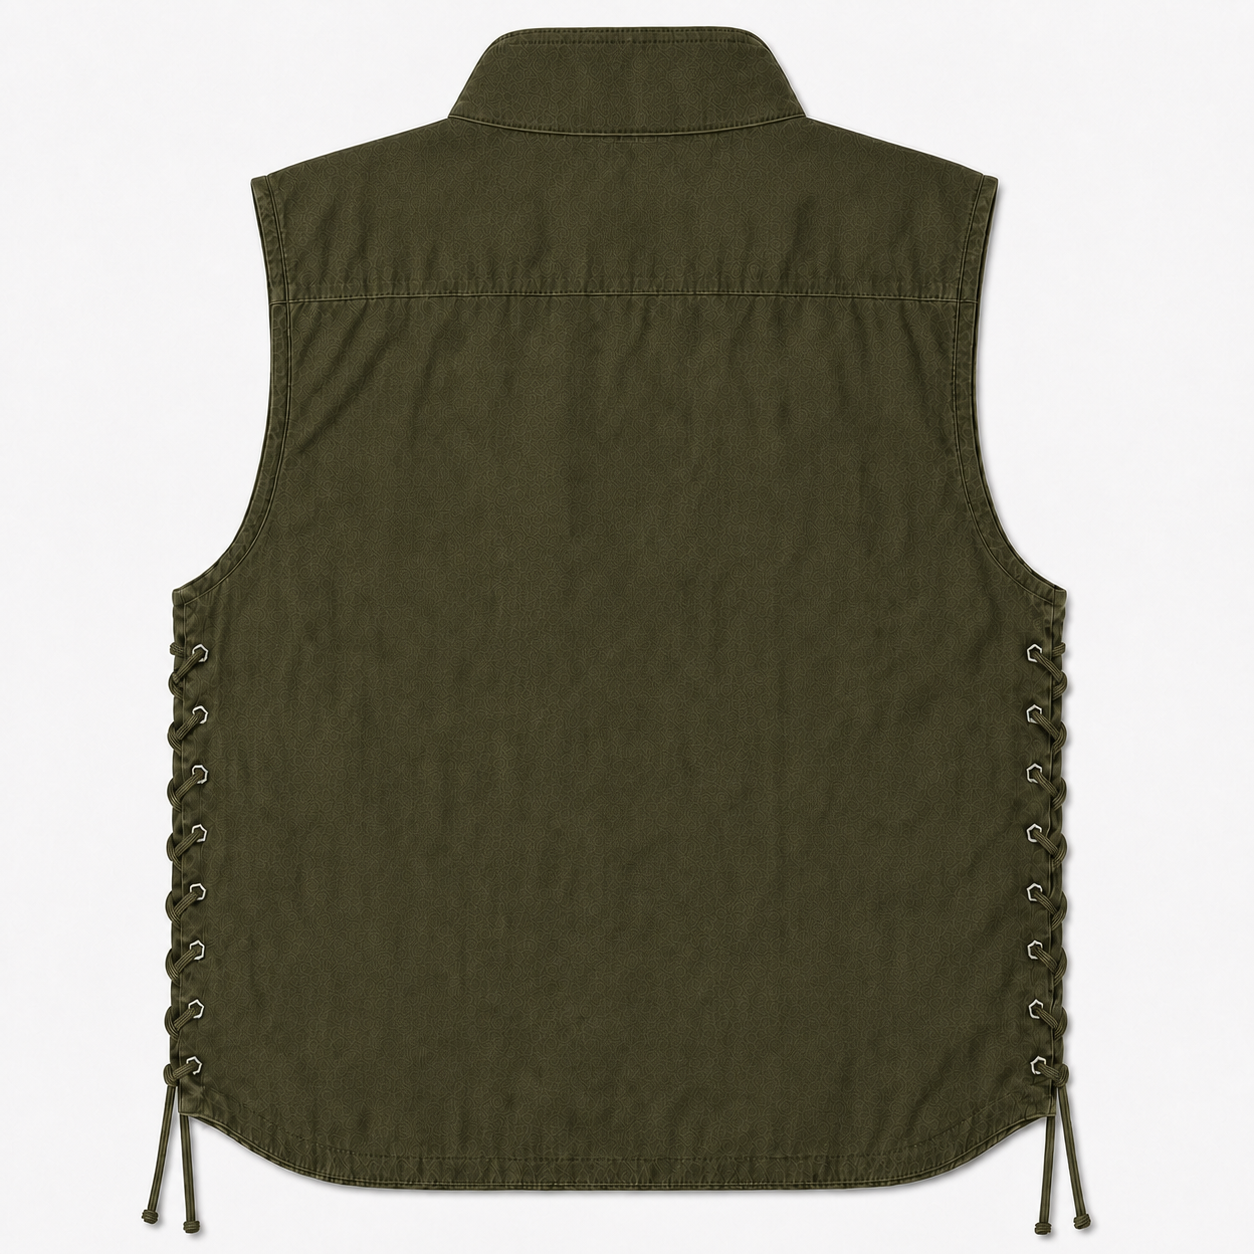
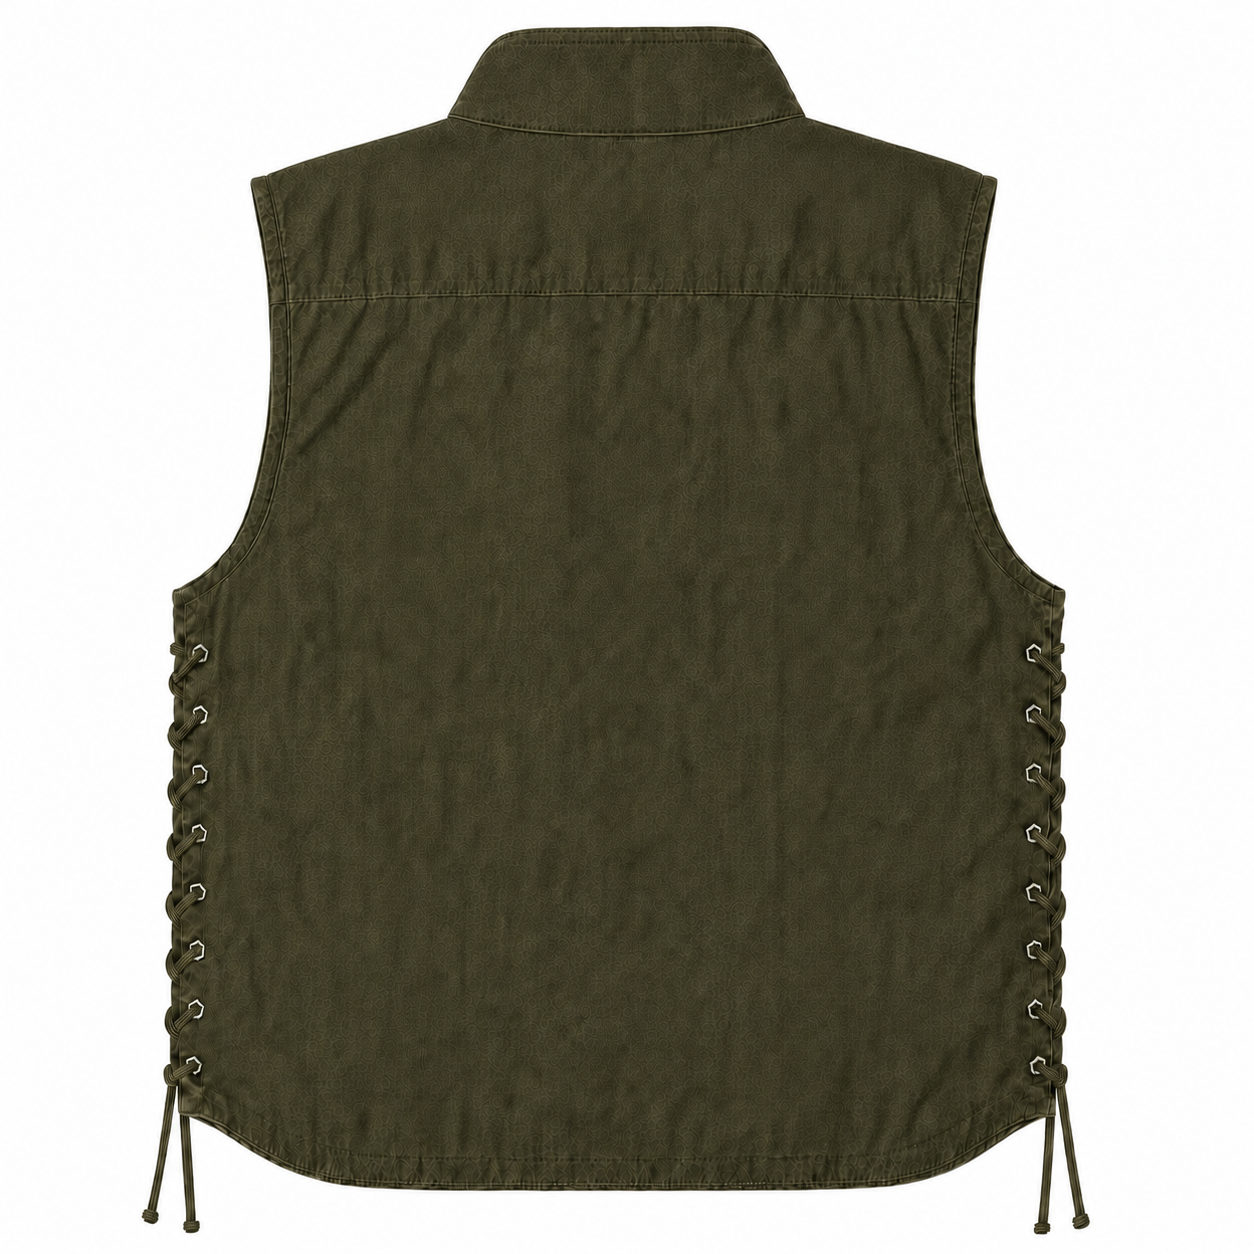
Update NC Flak Vest product photos

diff --git a/design-qa.md b/design-qa.md
@@ -1,25 +1,25 @@
-# Design QA — NC Flak Vest
+# Design QA — NC Flak Vest Product Photo Update
 
 ## Evidence
 
-- Source product imagery:
-  - Black: front, back, and model views supplied by the user.
-  - Olive: front, back, and model views supplied by the user.
-- Implementation target: the existing No Comply Command product-card and product-detail system.
+- Source assets: four updated images supplied by the user.
+- Black: updated front and back product views.
+- Olive: updated front and back product views.
+- Implementation target: existing NC Flak Vest card, detail page, and lightbox.
 
 ## Requested Change
 
-Add `NC FLAK VEST` at the bottom of the assortment for `$225`, with Black and Olive colorways, matching front/back/model imagery, model hover, XS–XL sizes, description, SKUs, color switching, and lightbox behavior.
+Replace only the Black and Olive NC Flak Vest product photos while preserving the existing model photos, product data, assortment order, swatches, sizing, hover behavior, and lightbox interactions.
 
 ## Verification
 
-- `NC FLAK VEST` is curated position 15, after all 14 existing products.
-- Black is the default colorway and Olive is selectable from its swatch.
-- Both variants include their matching front, back, and model image.
-- The assortment card uses the front image normally and the matching model image on hover.
-- The detail page exposes sizes XS, S, M, L, and XL.
-- Product description, unique per-color SKUs, swatches, color switching, and lightbox are present.
-- Existing assortment order, products, and image proxy configuration are unchanged.
+- Black front and back views use the updated matching images.
+- Olive front and back views use the updated matching images.
+- Both existing model images remain unchanged.
+- The Black front remains the default assortment image.
+- Both color selectors still switch to the correct image sets.
+- Both lightbox galleries still contain the matching front, back, and model images.
+- No other product data or site files were changed.
 - Production build passes.
 - TypeScript check passes.
 
